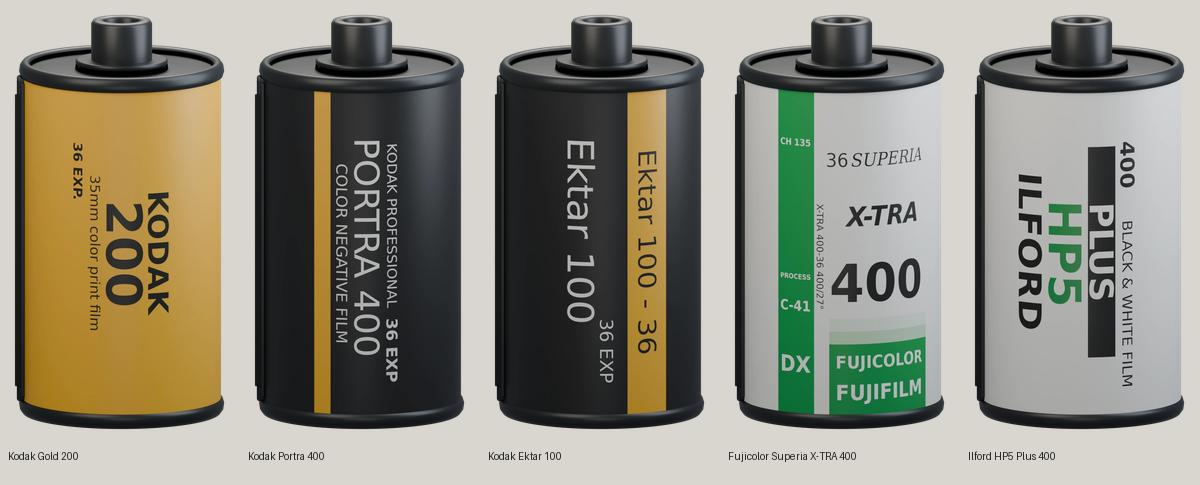
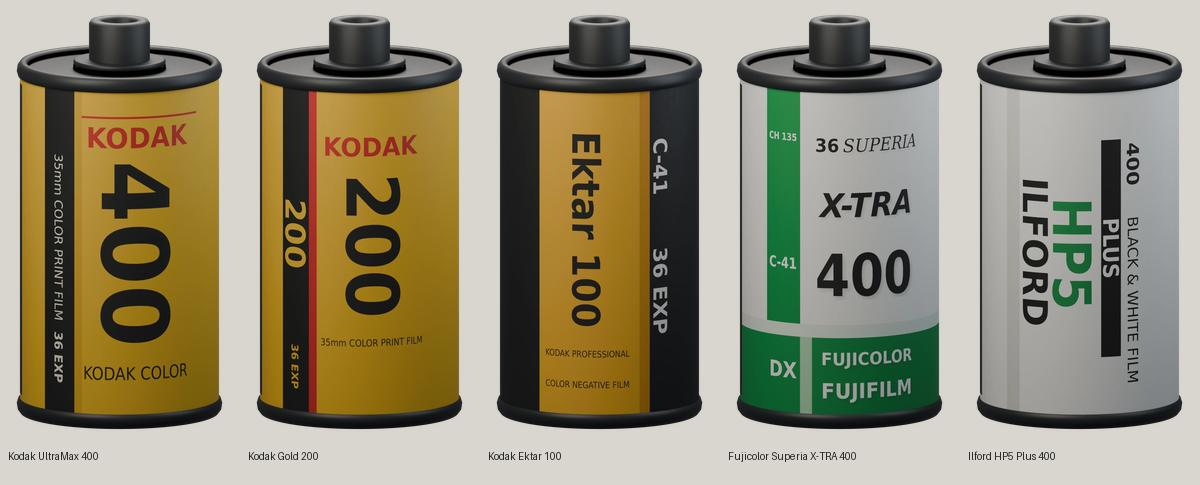
feat: refresh cartridge presets for 0.1.6

diff --git a/src/cartridges.ts b/src/cartridges.ts
@@ -3,8 +3,9 @@ import ektarAsset from "./assets/kodak-ektar-100.webp";
 import superiaAsset from "./assets/fuji-superia-400.webp";
 import hp5Asset from "./assets/ilford-hp5-400.webp";
 import goldAsset from "./assets/kodak-gold-200.webp";
+import ultramaxAsset from "./assets/kodak-ultramax-400.webp";
 import portraAsset from "./assets/kodak-portra-400.webp";
-import lightNotesAsset from "./assets/film-cartridge.webp";
+import lightNotesAsset from "./assets/light-notes.webp";
 
 /** Max 72 half-frame exposures on one 135 film roll. */
 export const filmRollMaxFrames = 72;
@@ -53,6 +54,8 @@ export function filmRollAssetUrl(asset: string | { src: string }): string {
 export const filmRollCartridges = {
   "light-notes": { name: "Light Notes 135", src: filmRollAssetUrl(lightNotesAsset) },
   "kodak-gold-200": { name: "Kodak Gold 200", src: filmRollAssetUrl(goldAsset) },
+  "kodak-ultramax-400": { name: "Kodak UltraMax 400", src: filmRollAssetUrl(ultramaxAsset) },
+  /** Retained for compatibility; not one of the five current reference presets. */
   "kodak-portra-400": { name: "Kodak Portra 400", src: filmRollAssetUrl(portraAsset) },
   "kodak-ektar-100": { name: "Kodak Ektar 100", src: filmRollAssetUrl(ektarAsset) },
   "fuji-superia-400": { name: "Fujicolor Superia X-TRA 400", src: filmRollAssetUrl(superiaAsset) },

diff --git a/README.md b/README.md
@@ -10,7 +10,7 @@ A reusable React component that presents photographs as a scrollable 35mm contac
 
 ### Cartridge options
 
-![Five 3D film canisters with labels individually reconstructed from photos of the actual Kodak Gold 200, Portra 400, Ektar 100, Fujicolor Superia X-TRA 400, and Ilford HP5 Plus 400 cartridges](https://raw.githubusercontent.com/wlonestar/film-roll/main/docs/screenshots/cartridge-presets.jpg)
+![Five 3D film canisters with labels individually reconstructed from photos of actual Kodak UltraMax 400, Gold 200, Ektar 100, Fujicolor Superia X-TRA 400, and Ilford HP5 Plus 400 cartridges](https://raw.githubusercontent.com/wlonestar/film-roll/main/docs/screenshots/cartridge-presets.jpg)
 
 ### Mobile
 
@@ -76,7 +76,7 @@ To take over frame clicks with a host viewer, pass `onFrameClick`. When provided
 - `className?: string`, appended to the root `.film-roll` element.
 - `filmRollCartridges`, `filmRollGeometry`, `filmRollMaxFrames`, and the related types are exported for integration and custom shells.
 
-Built-in cartridges: `light-notes`, `kodak-gold-200`, `kodak-portra-400`, `kodak-ektar-100`, `fuji-superia-400`, and `ilford-hp5-400`.
+Current branded presets: `kodak-ultramax-400`, `kodak-gold-200`, `kodak-ektar-100`, `fuji-superia-400`, and `ilford-hp5-400`. `light-notes` remains the default example shell; `kodak-portra-400` remains available for compatibility but is not one of the five refreshed reference presets. The previously exported `film-roll/assets/film-cartridge.webp` path remains a Light Notes alias; the blank shell is available as `film-roll/assets/film-cartridge-shell.webp`.
 
 The five branded labels are individually reconstructed from photographs of actual 135 cartridges, not retail-box artwork. They are unofficial interpretations of the pictured editions, not licensed artwork or exact packaging replicas. Brand names and marks remain the property of their respective owners; no affiliation or endorsement is implied.
 
